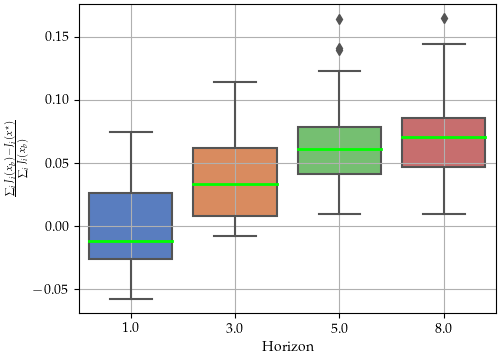
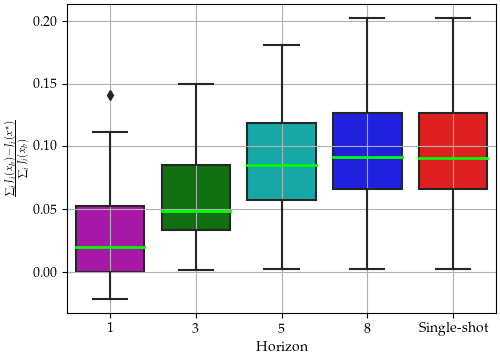
fixed colors plots

diff --git a/plot_multiperiod.py b/plot_multiperiod.py
@@ -110,7 +110,7 @@ for test in range(N_tests):
                 list_value[index_datapoint] = time_destination
                 index_datapoint = index_datapoint +1
 time_destination_dataframe = pd.DataFrame(list(zip(list_tests, list_T_horiz, list_agents, list_vehicles, list_value)), columns=['test', 'T horiz', 'agent','vehicle', 'value'])
-ax = sns.boxplot(x = "T horiz", y="value", data=time_destination_dataframe, palette="muted", medianprops={'color': 'lime', 'lw': 2})
+ax = sns.boxplot(x = "T horiz", y="value", data=time_destination_dataframe, palette="hls", medianprops={'color': 'lime', 'lw': 2})
 ax.grid(True)
 plt.show(block=False)
 
@@ -135,8 +135,13 @@ list_timestep = [None] *N_datapoints
 list_agents = [None] *N_datapoints
 list_vehicles = [None] *N_datapoints
 list_value = [None] *N_datapoints
+list_is_baseline = [None] *N_datapoints
+list_is_baseline_2= [None] * (len(T_horiz_tested) + 2)
 index_datapoint =0
+index_horizon = 0
 for T_horiz in T_horiz_tested:
+    list_is_baseline_2[index_horizon]=T_horiz
+    index_horizon = index_horizon+1
     for t in range(T_simulation):
         for test in range(N_tests):
             for i in range(N_agents):
@@ -149,8 +154,28 @@ for T_horiz in T_horiz_tested:
                     list_agents[index_datapoint] = i
                     list_vehicles[index_datapoint] = vehicle
                     list_value[index_datapoint] = distance_from_dest.item()
+                    list_is_baseline[index_datapoint] = False
                     index_datapoint = index_datapoint +1
-# Baseline 1: Shortest path
+# Baseline 1: one-shot
+list_is_baseline_2[index_horizon]="Single-shot"
+index_horizon = index_horizon+1
+for t in range(T_simulation):
+    for test in range(N_tests):
+        for i in range(N_agents):
+            for vehicle in range(N_vehicles):
+                current_node = visited_nodes_oneshot[test, i, vehicle, t]
+                distance_oneshot = cost_SP[test, i, int(current_node.item())]
+                list_tests[index_datapoint] = test
+                list_timestep[index_datapoint] = t
+                list_T_horiz[index_datapoint] = "Single-shot"
+                list_agents[index_datapoint] = i
+                list_vehicles[index_datapoint] = 0
+                list_value[index_datapoint] = distance_oneshot.item()
+                list_is_baseline[index_datapoint] = True
+                index_datapoint = index_datapoint + 1
+# Baseline 2: Shortest path
+list_is_baseline_2[index_horizon]="SP"
+index_horizon = index_horizon+1
 for t in range(T_simulation):
     for test in range(N_tests):
         for i in range(N_agents):
@@ -164,24 +189,14 @@ for t in range(T_simulation):
             list_agents[index_datapoint] = i
             list_vehicles[index_datapoint] = 0
             list_value[index_datapoint] = distance_baseline
+            list_is_baseline[index_datapoint] = True
             index_datapoint = index_datapoint + 1
-# Baseline 2: one-shot
-for t in range(T_simulation):
-    for test in range(N_tests):
-        for i in range(N_agents):
-            for vehicle in range(N_vehicles):
-                current_node = visited_nodes_oneshot[test, i, vehicle, t]
-                distance_oneshot = cost_SP[test, i, int(current_node.item())]
-                list_tests[index_datapoint] = test
-                list_timestep[index_datapoint] = t
-                list_T_horiz[index_datapoint] = "Single-shot"
-                list_agents[index_datapoint] = i
-                list_vehicles[index_datapoint] = 0
-                list_value[index_datapoint] = distance_oneshot.item()
-                index_datapoint = index_datapoint + 1
-distance_from_dest_dataframe = pd.DataFrame(list(zip(list_tests, list_timestep, list_T_horiz, list_agents, list_vehicles, list_value)), columns=['test', 't', 'T horizon', 'agent','vehicle', 'Distance from endpoint'])
 
-sns.lineplot(data = distance_from_dest_dataframe, ci=None , x='t', y='Distance from endpoint', hue='T horizon')
+distance_from_dest_dataframe = pd.DataFrame(list(zip(list_tests, list_timestep, list_T_horiz, list_agents, list_vehicles, list_value, list_is_baseline)),
+                                            columns=['test', 't', 'T horizon', 'agent','vehicle', 'Distance from endpoint', 'Baseline'])
+dic_dashes = {False:'', True:(2,2)}
+sns.lineplot(data=distance_from_dest_dataframe, ci=None , x='t', palette=['m', 'g', 'c','b', 'r', 'k'], y='Distance from endpoint', hue='T horizon', style=list_is_baseline, dashes=dic_dashes)
+plt.legend(labels=list_is_baseline_2)
 ax.set_ylim([0, 3])
 ax.set_xlim([0, T_simulation - 1])
 
@@ -265,7 +280,7 @@ for test in range(N_tests):
     list_value[index_datapoint] = (social_cost_baseline - social_cost_oneshot) / social_cost_baseline
     index_datapoint = index_datapoint + 1
 social_cost_dataframe = pd.DataFrame(list(zip(list_tests,list_T_horiz, list_value)), columns=['test', 'T horiz', 'value'])
-ax = sns.boxplot(x ="T horiz" ,y="value", data=social_cost_dataframe, palette="muted", medianprops={'color': 'lime', 'lw': 2})
+ax = sns.boxplot(x ="T horiz" ,y="value", data=social_cost_dataframe, palette=['m','g', 'c', 'b', 'r'], medianprops={'color': 'lime', 'lw': 2})
 ax.set_ylabel(r'$\frac{\sum_i J_i(x_b) - J_i(x^{\star})}{\sum_i J_i(x_b)}$ ')
 ax.set_xlabel(r'Horizon')
 ax.grid(True)
